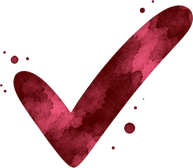
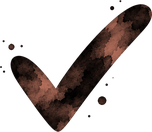
feat(profil): les 3 icônes des chiffres en aquarelle chocolat, à la taille de la flamme

diff --git a/app/(tabs)/profile.tsx b/app/(tabs)/profile.tsx
@@ -42,7 +42,6 @@ import GlassButton from '../../components/ui/GlassButton';
 import GlassSection from '../../components/ui/GlassSection';
 import { useTabBarInset } from '../../components/ui/GlassTabBar';
 import { StitchBorder, StitchLine } from '../../components/ui/Stitch';
-import { STREAK_FLAME } from '../../components/ui/StreakPill';
 import { myCoverUrl } from '../../services/myEdition';
 import { getMyReadingDays } from '../../services/supabase/database';
 import { useAuthStore } from '../../stores/authStore';
@@ -52,9 +51,10 @@ import { readingOf } from '../../utils/library';
 import { resolvePhotoSource } from '../../utils/profilePhoto';
 import { longestStreak } from '../../utils/streak';
 
-/** Les icônes à l'aquarelle des chiffres, dessinées par Lea (la flamme vient de la série) */
+/** Les icônes à l'aquarelle chocolat des chiffres, dessinées par Lea */
 const ICON_FINISHED = require('../../assets/images/profile/finished.png');
 const ICON_PAGES = require('../../assets/images/profile/pages.png');
+const ICON_STREAK = require('../../assets/images/profile/streak.png');
 
 const PHOTO = 112;
 /** Sous l'en-tête : la place des festons, pour qu'ils se voient sur toute la largeur */
@@ -163,7 +163,7 @@ export default function ProfileScreen() {
             <Stat icon={<Image source={ICON_PAGES} style={styles.iconPages} contentFit="contain" />} value={pagesRead} label="pages lues" />
             <StitchLine vertical />
             <Stat
-              icon={<Image source={STREAK_FLAME} style={styles.flame} contentFit="contain" />}
+              icon={<Image source={ICON_STREAK} style={styles.iconStreak} contentFit="contain" />}
               value={bestStreak}
               unit=" j"
               label="meilleure série"
@@ -364,10 +364,10 @@ const styles = StyleSheet.create({
     alignItems: 'center',
     marginBottom: spacing.xs,
   },
-  // Proportions des dessins (rognés à 168 px de haut)
-  iconFinished: { width: 28, height: 24 },
-  iconPages: { width: 37, height: 24 },
-  flame: { width: 24, height: 24 },
+  // Petites, à la taille de la flamme de la série ; proportions des dessins rognés
+  iconFinished: { width: 23, height: 20 },
+  iconPages: { width: 28, height: 18 },
+  iconStreak: { width: 14, height: 20 },
   statValue: {
     fontFamily: fonts.display,
     fontSize: fontSize['2xl'],
